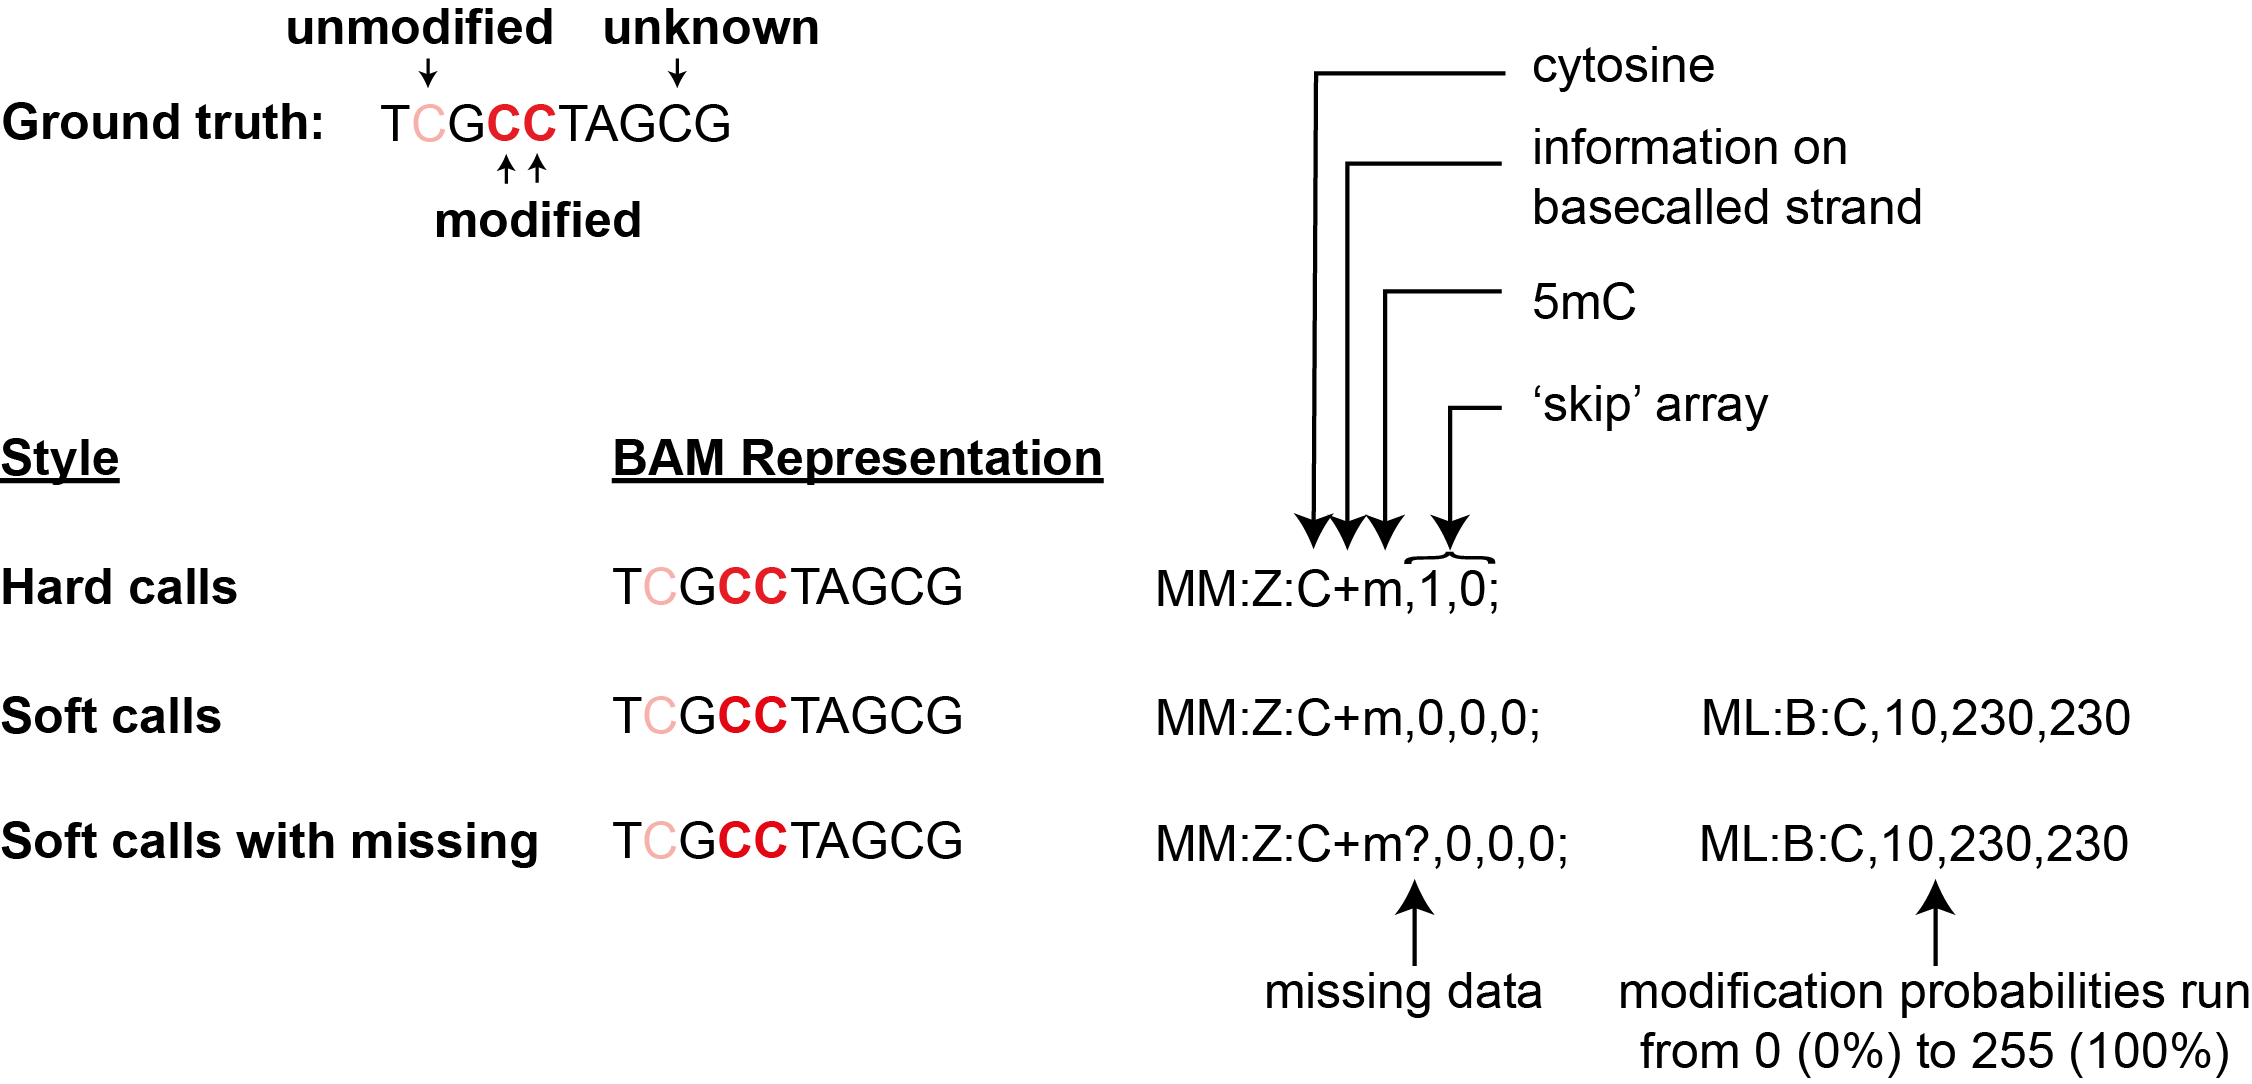
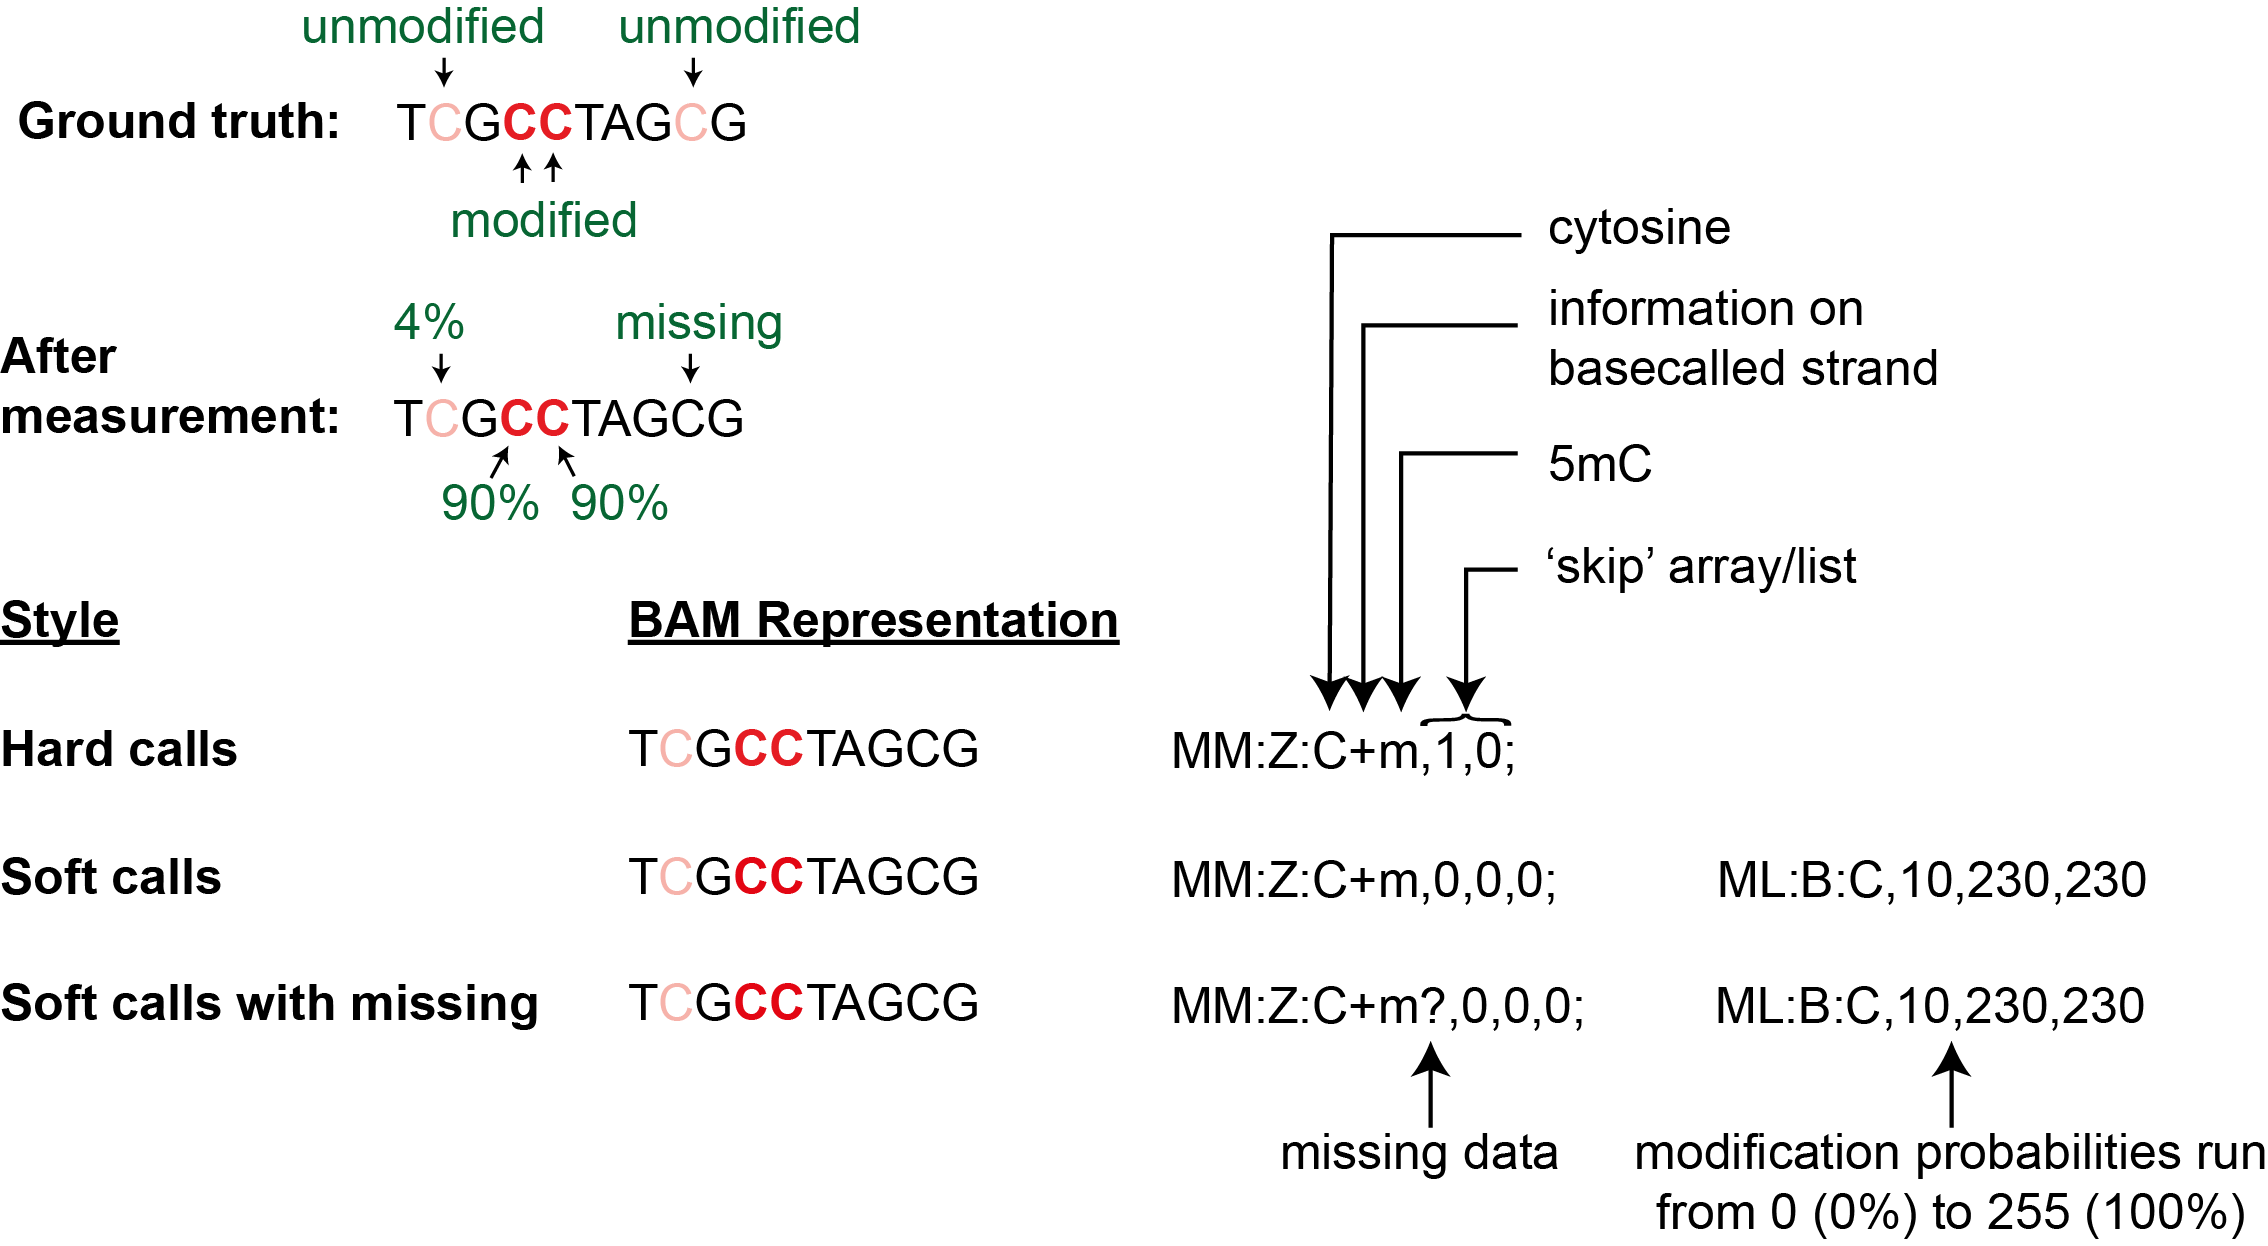
fixes small issues

diff --git a/materials/mod-bam-format.md b/materials/mod-bam-format.md
@@ -29,8 +29,8 @@ Let us consider the example where the second and the third cytosines of the sequ
 modified to 5-methylcytosine (5mC) and the others are unmodified.
 The simplest way of storing this information is the self-explanatory list `C->5mC:2,3`.
 For reasons we will not get into here, what is stored is instead the *diff* of this list i.e. instead
-of storing positions of modified thymidines, we count the number of unmodified thymidines between 
-each successive pair of modified thymidines.
+of storing positions of modified cytosines, we count the number of unmodified cytosines between 
+each successive pair of modified cytosines.
 This is illustrated in the figure below.
 
 ![Picture demonstrating skip array](mm_skip_array_illustration.png)
@@ -94,10 +94,9 @@ The tag would then read (replace spaces with tabs) `MM:Z:C+m,1,0; MM:Z:G-m,0;`.
 
 ## Scenario 2: Soft modification calls with probabilities
 
-We dealt with a thresholded mod BAM file in the previous section. Here, we look at a non-thresholded
-format which is typically output by modification callers.
-We are required to store a probability of modification per base per read to a mod BAM file,
-so we need to store both a base coordinate and a number between 0 and 1 per coordinate.
+We dealt with a 'binary' mod BAM file in the previous section. Here, we look at a common
+format with a probability of modification per base typically output by modification callers.
+So, we need to store both a base coordinate and a number between 0 and 1 per coordinate.
 For base coordinates, we just use the 'skip' representation from the previous section.
 For probabilities, we convert them from a floating point number in the 0-1 range to an integer
 in the 0-255 range and store them using a second tag that begins with `ML:B:C`.
